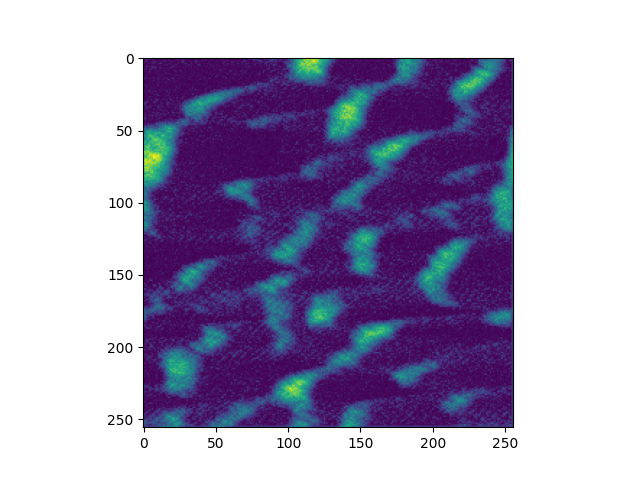
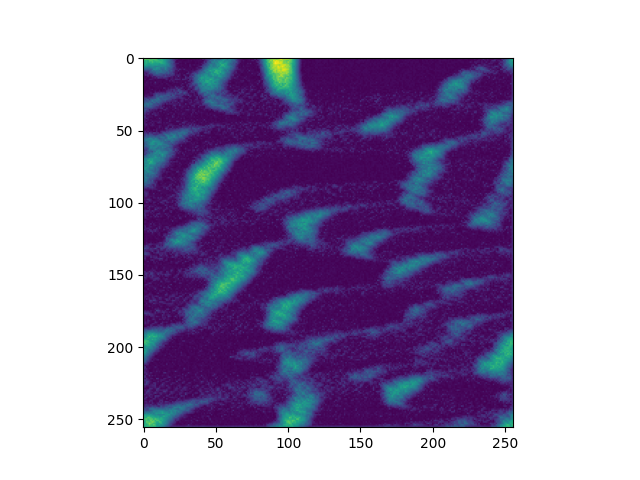
use constant bedrock hardness throughout simulation

Changed region(s): [[0.2188, 0.125, 0.8125, 0.9062]]

diff --git a/Code/Include/desert.h b/Code/Include/desert.h
@@ -1,6 +1,8 @@
 #pragma once
 
 #include "basics.h"
+#include "noise.h"
+#include "vec.h"
 
 class DuneSediment {
 private:
@@ -111,9 +113,51 @@ inline float DuneSediment::Sediment(int i, int j) const {
 /*!
 \brief
 */
-inline void DuneSediment::SetAbrasionMode(bool c) { abrasionOn = c; }
+inline void DuneSediment::SetAbrasionMode(bool c) {
+  abrasionOn = c;
+  if (!abrasionOn) {
+    return;
+  }
+
+  for (int i = 0; i < nx; i++) {
+    for (int j = 0; j < ny; j++) {
+      const float freq = 0.08f;
+      const float warp = 15.36f;
+      const Vector2 p = bedrock.ArrayVertex(i, j);
+
+      // Bedrock resistance [0, 1] (1.0 equals to weak, 0.0 equals to hard)
+      // Here with a simple sin() function, but anything could be used: texture,
+      // noise, construction trees... In the paper, we used various noises
+      // octaves combined with each other. Note: To get a more interesting look
+      // on the yardangs, turbulent wind is required. It is not provided In this
+      // implementation.
+
+      float h = sinf((p.y * freq) + (warp * PerlinNoise::GetValue(0.05f * p)));
+      h = (h + 1) / 2.0f;
+      bedrockHardness.Set(i, j, h);
+    }
+  }
+}
 
 /*!
 \brief
 */
-inline void DuneSediment::SetVegetationMode(bool c) { vegetationOn = c; }
+inline void DuneSediment::SetVegetationMode(bool c) {
+  vegetationOn = c;
+  if (!vegetationOn) {
+    return;
+  }
+
+  for (int i = 0; i < nx; i++) {
+    for (int j = 0; j < ny; j++) {
+      // Vegetation
+      // Arbitrary clamped 2D noise - but you can use whatever you want.
+      Vector3 vector = Vector3(i * 7.91247f, j * 7.91247f, 0.0f);
+      float v = PerlinNoise::fBm(vector, 1.0f, 0.002f, 3);
+      v = v / 1.75f;
+
+      if (v > 0.45f)
+        vegetation.Set(i, j, 0.85f);
+    }
+  }
+}

diff --git a/Code/Source/desert-simulation.cpp b/Code/Source/desert-simulation.cpp
@@ -1,7 +1,5 @@
 #include "../Include/desert.h"
-#include "../Include/noise.h"
 
-#include <cmath>
 #include <omp.h>
 
 // File scope variables
@@ -226,21 +224,7 @@ void DuneSediment::PerformAbrasionOnCell(int i, int j, const Vector2 &windDir) {
 
   // Vegetation protects from abrasion
   float v = vegetationOn ? vegetation.Get(id) : 0.0f;
-
-  // Bedrock resistance [0, 1] (1.0 equals to weak, 0.0 equals to hard)
-  // Here with a simple sin() function, but anything could be used: texture,
-  // noise, construction trees... In the paper, we used various noises octaves
-  // combined with each other. Note: To get a more interesting look on the
-  // yardangs, turbulent wind is required. It is not provided In this
-  // implementation.
-  const Vector2 p = bedrock.ArrayVertex(i, j);
-  const float freq = 0.08f;
-  const float warp = 15.36f;
-
-  float h = sinf((p.y * freq) + (warp * PerlinNoise::GetValue(0.05f * p)));
-  h = (h + 1) / 2.0f;
-
-  bedrockHardness[id] = h;
+  float h = bedrockHardness.Get(id);
 
   // Wind strength
   float w = Math::Clamp(Magnitude(windDir), 0.0f, 2.0f);

diff --git a/Code/Source/desert.cpp b/Code/Source/desert.cpp
@@ -1,5 +1,4 @@
 #include "../Include/desert.h"
-#include "../Include/noise.h"
 
 #include <fstream>
 #include <iostream>
@@ -46,14 +45,6 @@ DuneSediment::DuneSediment(int nx, int ny, const Box2D &bbox, float rMin,
 
   for (int i = 0; i < nx; i++) {
     for (int j = 0; j < ny; j++) {
-      // Vegetation
-      // Arbitrary clamped 2D noise - but you can use whatever you want.
-      float v = PerlinNoise::fBm(Vector3(i * 7.91247f, j * 7.91247f, 0.0f),
-                                 1.0f, 0.002f, 3) /
-                1.75f;
-      if (v > 0.45f)
-        vegetation.Set(i, j, 0.85f);
-
       // Sand
       sediments.Set(i, j, Random::Uniform(rMin, rMax));
     }

diff --git a/bind.cpp b/bind.cpp
@@ -23,8 +23,8 @@ PYBIND11_MODULE(dune, m) {
                  Box2D(Vector2(0, 0), Vector2(std::get<0>(cell_size) * nx,
                                               std::get<1>(cell_size) * ny)),
                  r_min, r_max, Vector2(std::get<0>(wind), std::get<1>(wind)));
-             ds.vegetationOn = vegetation_on;
-             ds.abrasionOn = abrasion_on;
+             ds.SetVegetationMode(vegetation_on);
+             ds.SetAbrasionMode(abrasion_on);
              return ds;
            }),
            py::arg("nx"), py::arg("ny"), py::arg("r_min"), py::arg("r_max"),
